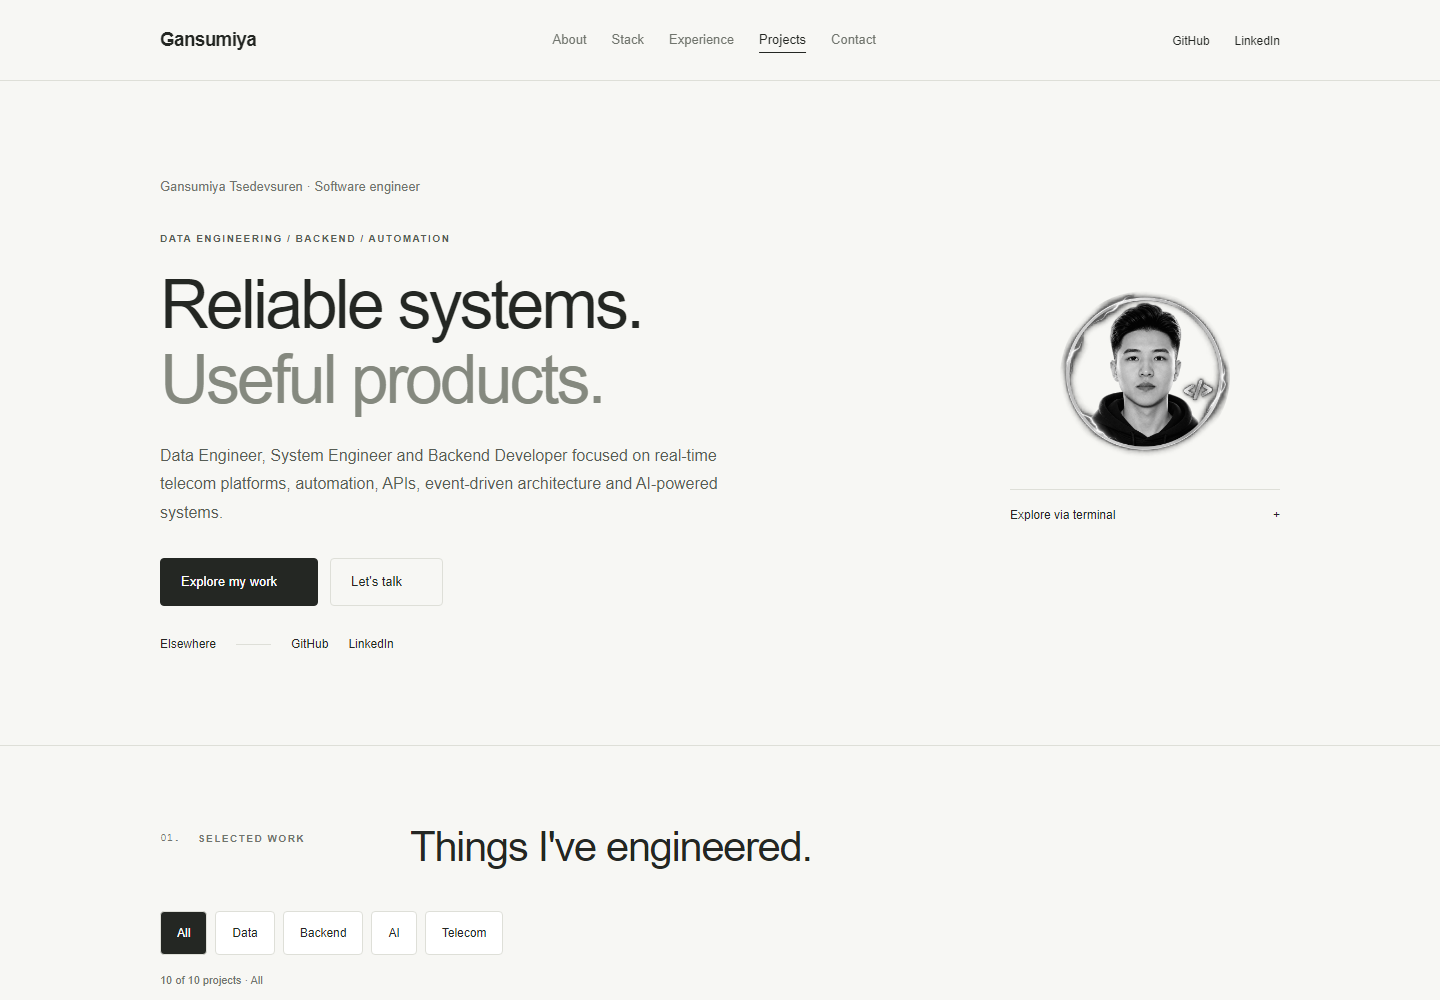
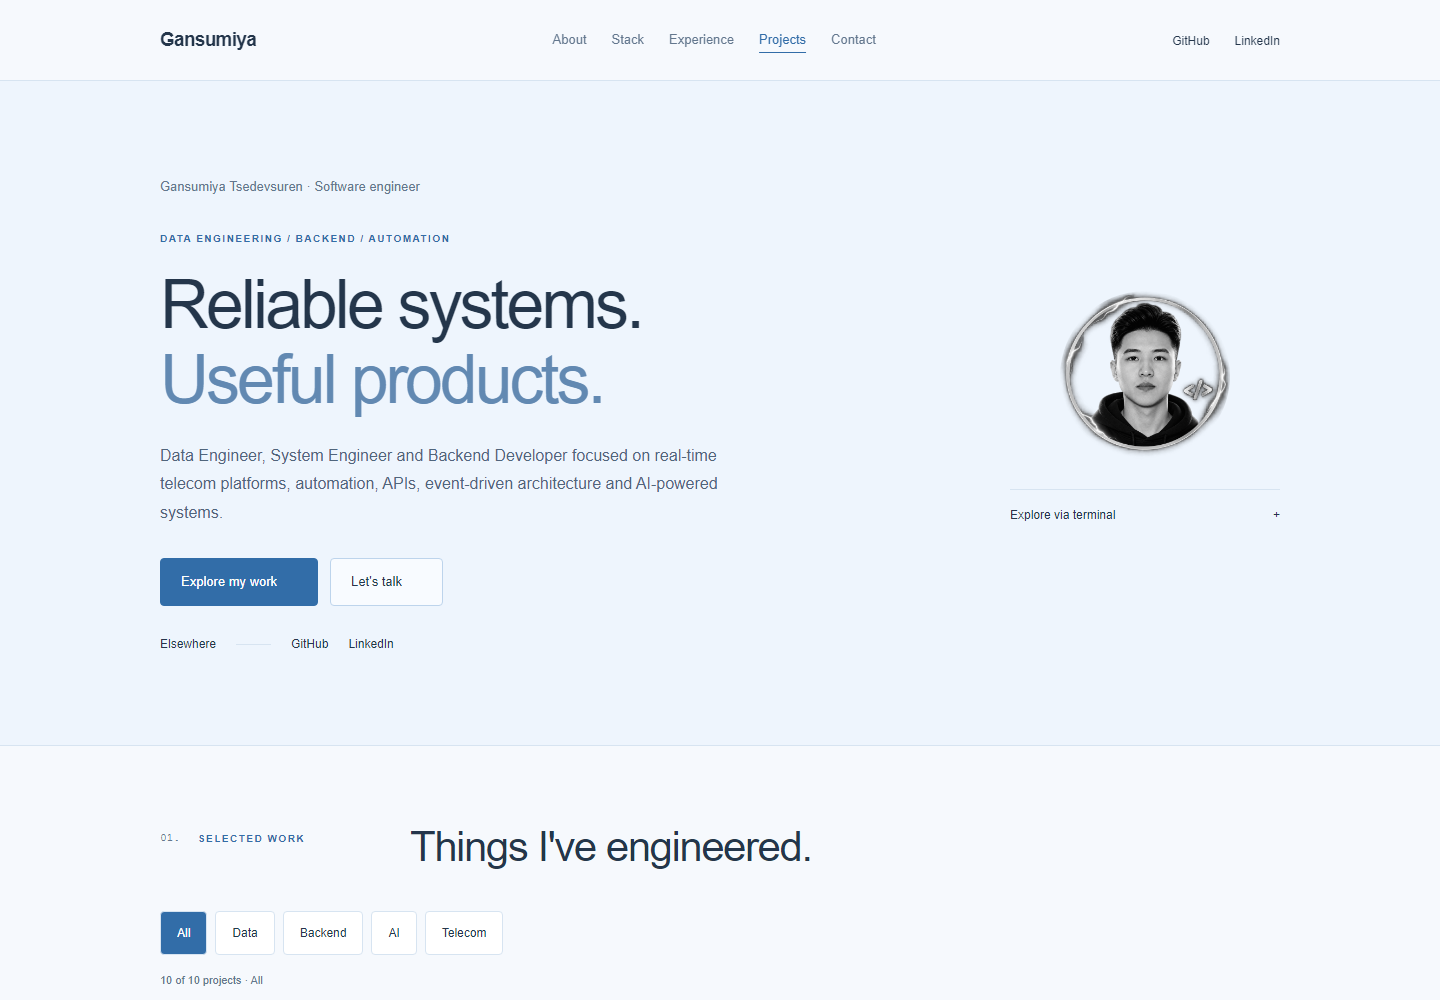
change back colr and image
change back colr and image

diff --git a/style.css b/style.css
@@ -1,2 +1,8 @@
-:root{--bg:#f7f7f4;--bg-alt:#fff;--card-solid:#fff;--text:#242723;--muted:#70746d;--muted-light:#575d55;--border:#dedfd8;--border-hover:#9ba298;--amber:#345b49;--green:#345b49}*{box-sizing:border-box;margin:0;padding:0}html{scroll-behavior:smooth}body{background:var(--bg);color:var(--text);font:15px/1.7 Inter,Arial,sans-serif}a{color:inherit;text-decoration:none}button,input,select{font:inherit}button,a{touch-action:manipulation}img{max-width:100%}p{color:var(--muted-light)}h1,h2,h3{font-weight:500;line-height:1.18;letter-spacing:-.035em}h2{font-size:clamp(28px,4vw,42px)}h3{font-size:24px}.container{width:min(1120px,calc(100% - 64px));margin:auto}.background-grid,.ancient-symbols,.orb,#cursor-glow,#scroll-progress,.floating-chip,.avatar-glow,.avatar-status,.tech-strip,.philosophy-section,.currently-grid,.availability-dot,.logo-symbol,.project-icon-large,.project-small-icon,.skill-card-icon,.stat-icon,.experience-marker{display:none}.navbar{position:sticky;top:0;z-index:20;background:rgba(247,247,244,.96);border-bottom:1px solid var(--border)}.nav-container{display:flex;align-items:center;justify-content:space-between;min-height:80px;gap:28px}.logo{font-size:19px;font-weight:600;letter-spacing:-.7px}.nav-links,.nav-actions{display:flex;gap:25px;align-items:center}.nav-links a{font-size:13px;color:var(--muted)}.nav-links a:hover,.nav-links a.active{color:var(--text);text-decoration:underline;text-underline-offset:7px}.nav-icon{font-size:17px}.mobile-menu-button{display:none}.mobile-menu{display:none}.hero{padding:95px 0 90px}.hero-container{display:grid;grid-template-columns:1fr 270px;gap:90px;align-items:center}.availability-badge{font-size:13px;color:var(--muted);margin-bottom:32px}.hero-overline,.section-label,.project-category,.experience-company,.contact-small{font-size:10px;letter-spacing:1.5px;font-weight:600}.hero-overline{margin-bottom:20px}.hero-title{font-size:clamp(42px,5.1vw,68px);line-height:1.1;letter-spacing:-3px;margin-bottom:25px}.muted-text{color:#85897f}.gradient-text{color:inherit}.hero-description{max-width:570px;line-height:1.8;font-size:16px}.hero-actions{display:flex;gap:12px;flex-wrap:wrap;margin-top:30px}.button{display:inline-flex;gap:20px;align-items:center;padding:12px 20px;border:1px solid var(--border);border-radius:4px;font-size:13px}.button-primary{background:var(--text);color:#fff;border-color:var(--text)}.hero-social{display:flex;gap:20px;align-items:center;font-size:12px;margin-top:28px}.hero-social-line{width:35px;height:1px;background:var(--border)}.hero-avatar{width:170px;height:170px;object-fit:cover;border-radius:50%;filter:grayscale(1);display:block;margin:0 auto 28px}.terminal-card{border-top:1px solid var(--border);font-size:12px}.terminal-card summary{padding:15px 0;cursor:pointer;list-style:none}.terminal-card summary span{float:right}.terminal-header,.terminal-body>.terminal-line,.terminal-output,.terminal-status{display:none}.terminal-body{padding:0 0 16px}.section{padding:76px 0;border-top:1px solid var(--border)}.section-header{display:grid;grid-template-columns:220px 1fr;gap:30px;align-items:start;margin-bottom:40px}.section-header>div{display:flex;gap:18px;align-items:center;padding-top:8px}.section-number{font:11px monospace;color:var(--muted)}.section-label{color:var(--muted)}.section-header h2{max-width:650px}.projects-grid{display:grid;grid-template-columns:repeat(2,minmax(0,1fr));gap:0 36px}.project-card{padding:30px 0;border-top:1px solid var(--border);min-width:0;display:flex;flex-direction:column}.project-card[hidden]{display:none}.project-card:first-child{order:-2}.project-card:last-child{order:-1}.project-top{display:flex;justify-content:space-between;align-items:center;margin-bottom:25px}.project-number{font:12px monospace;color:var(--muted)}.project-badges{display:flex;gap:15px;font-size:9px;letter-spacing:1px}.project-status{color:var(--green)}.project-category{color:var(--muted);margin-bottom:10px}.project-card h3{font-size:28px;margin-bottom:16px}.project-description{font-size:14px;line-height:1.8;margin-bottom:20px}.project-split{display:none}.project-tech,.skill-tags,.experience-stack{display:flex;gap:7px;flex-wrap:wrap}.project-tech{margin-top:auto}.project-tech span,.skill-tags span,.experience-stack span{font-size:11px;border:1px solid var(--border);padding:5px 9px;border-radius:3px}.project-link{font-size:13px;margin-top:22px;color:var(--amber);text-decoration:underline;text-underline-offset:5px}.about-layout{display:grid;grid-template-columns:1.3fr 1fr;gap:70px}.about-main p{margin-bottom:20px}.about-big-text{font-size:23px;line-height:1.6}.stat-card{padding:0 0 24px;margin-bottom:20px;border-bottom:1px solid var(--border)}.stat-card h3{font-size:18px;margin-bottom:8px}.stat-card p{font-size:13px}.skills-bento{display:grid;grid-template-columns:repeat(4,minmax(0,1fr));gap:35px 25px}.skill-card{padding-top:20px;border-top:1px solid var(--border)}.skill-index{font:11px monospace;color:var(--muted)}.skill-card h3{font-size:18px;margin:12px 0 20px}.skill-card>p{font-size:13px;margin-bottom:16px}.experience-item{display:grid;grid-template-columns:220px 1fr;gap:30px}.experience-date{font:12px monospace;color:var(--muted);padding-top:7px}.experience-top{display:flex;justify-content:space-between;gap:20px;margin-bottom:22px}.experience-company{margin-bottom:12px}.experience-type{font-size:12px;color:var(--muted)}.experience-points{margin:24px 0;font-size:14px}.experience-points>div{margin:9px 0}.experience-points i{margin-right:12px;font-size:10px}.section:has(.currently-grid){display:none}.contact-box{max-width:760px}.contact-status{font:10px monospace;color:var(--green);margin-bottom:30px}.contact-small{margin-bottom:15px}.contact-description{margin:24px 0}.contact-email{font-size:clamp(17px,3vw,29px);text-decoration:underline;text-underline-offset:6px;overflow-wrap:anywhere}.contact-links{display:flex;gap:25px;flex-wrap:wrap;font-size:13px;margin-top:25px}.contact-links i{margin-right:6px}.footer{border-top:1px solid var(--border);padding:30px 0;font-size:11px}.footer-container{display:flex;justify-content:space-between;gap:20px}.footer .fa-heart{display:none}.reveal{opacity:1}.architecture-board{margin:28px 0;border:1px solid var(--border);background:#fff;padding:24px;border-radius:5px}.architecture-caption{display:flex;justify-content:space-between;gap:20px;margin-bottom:24px;font-size:12px}.architecture-caption span{color:var(--muted);font:10px monospace}.arch-lane{display:grid;grid-template-columns:110px repeat(4,minmax(0,1fr));gap:24px;align-items:stretch;margin:16px 0}.arch-lane>strong{align-self:center;font-size:10px;letter-spacing:1px;font-weight:500}.arch-node{position:relative;border:1px solid var(--border);padding:14px 12px;border-radius:3px;font-size:12px;font-weight:600}.arch-node small{display:block;margin-top:7px;font-size:10px;font-weight:400;color:var(--muted)}.arch-node:not(:last-child):after{content:'→';position:absolute;right:-20px;top:40%;color:var(--muted)}.arch-node.accent{border-color:#88a092;background:#f1f5f0}.arch-support{border-top:1px dashed #b7bdb3;margin-top:24px;padding-top:18px;display:grid;grid-template-columns:repeat(3,1fr);gap:20px}.arch-support div{font-size:11px}.arch-support small{display:block;color:var(--muted);margin-top:5px}.arch-note{font-size:11px;margin-top:18px}.project-dialog .architecture-board{padding:15px}.project-dialog .arch-lane{grid-template-columns:1fr 1fr;gap:15px}.project-dialog .arch-lane>strong{grid-column:1/-1}.project-dialog .arch-node:after{display:none}@media(max-width:850px){.nav-links{gap:15px}.nav-actions .nav-icon{display:none}.hero-container{gap:35px;grid-template-columns:1fr 220px}.skills-bento{grid-template-columns:repeat(2,1fr)}.arch-lane{grid-template-columns:1fr 1fr;gap:20px}.arch-lane>strong{grid-column:1/-1}.arch-node:nth-child(3):after{content:none}.section-header,.experience-item{grid-template-columns:160px 1fr}}@media(max-width:600px){.container{width:calc(100% - 40px)}.nav-container{min-height:65px}.nav-links{display:none}.mobile-menu-button{display:block;border:1px solid var(--border);background:transparent;width:42px;height:42px;border-radius:3px}.mobile-menu.active{display:flex;flex-direction:column;padding:20px;gap:16px;border-top:1px solid var(--border)}.hero{padding:50px 0}.hero-container{grid-template-columns:1fr;gap:32px}.hero-visual{display:flex;gap:22px;align-items:flex-start}.avatar-wrapper{flex:0 0 70px}.hero-avatar{width:70px;height:70px;margin:0}.terminal-card{flex:1;min-width:0}.hero-title{letter-spacing:-2px}.availability-badge{margin-bottom:24px}.section{padding:48px 0}.section-header,.experience-item,.about-layout{grid-template-columns:1fr;gap:22px}.projects-grid{grid-template-columns:1fr}.skills-bento{gap:25px 16px}.skill-card h3{font-size:17px}.footer-container{flex-direction:column;gap:10px}.arch-support{grid-template-columns:1fr;gap:12px}.architecture-board{padding:16px}.architecture-caption{flex-direction:column;gap:6px}.arch-lane{grid-template-columns:1fr;gap:20px}.arch-node:not(:last-child):after{content:'↓';right:50%;top:auto;bottom:-20px}.project-dialog .arch-lane{grid-template-columns:1fr}}
+:root{--bg:#f6f9fd;--bg-alt:#fff;--card-solid:#fff;--text:#24364b;--muted:#63778e;--muted-light:#50657c;--border:#d7e4f1;--border-hover:#8fb6dd;--amber:#326da8;--green:#326da8}*{box-sizing:border-box;margin:0;padding:0}html{scroll-behavior:smooth}body{background:var(--bg);color:var(--text);font:15px/1.7 Inter,Arial,sans-serif}a{color:inherit;text-decoration:none}button,input,select{font:inherit}button,a{touch-action:manipulation}img{max-width:100%}p{color:var(--muted-light)}h1,h2,h3{font-weight:500;line-height:1.18;letter-spacing:-.035em}h2{font-size:clamp(28px,4vw,42px)}h3{font-size:24px}.container{width:min(1120px,calc(100% - 64px));margin:auto}.background-grid,.ancient-symbols,.orb,#cursor-glow,#scroll-progress,.floating-chip,.avatar-glow,.avatar-status,.tech-strip,.philosophy-section,.currently-grid,.availability-dot,.logo-symbol,.project-icon-large,.project-small-icon,.skill-card-icon,.stat-icon,.experience-marker{display:none}.navbar{position:sticky;top:0;z-index:20;background:rgba(246,249,253,.96);border-bottom:1px solid var(--border)}.nav-container{display:flex;align-items:center;justify-content:space-between;min-height:80px;gap:28px}.logo{font-size:19px;font-weight:600;letter-spacing:-.7px}.nav-links,.nav-actions{display:flex;gap:25px;align-items:center}.nav-links a{font-size:13px;color:var(--muted)}.nav-links a:hover,.nav-links a.active{color:var(--text);text-decoration:underline;text-underline-offset:7px}.nav-icon{font-size:17px}.mobile-menu-button{display:none}.mobile-menu{display:none}.hero{padding:95px 0 90px}.hero-container{display:grid;grid-template-columns:1fr 270px;gap:90px;align-items:center}.availability-badge{font-size:13px;color:var(--muted);margin-bottom:32px}.hero-overline,.section-label,.project-category,.experience-company,.contact-small{font-size:10px;letter-spacing:1.5px;font-weight:600}.hero-overline{margin-bottom:20px}.hero-title{font-size:clamp(42px,5.1vw,68px);line-height:1.1;letter-spacing:-3px;margin-bottom:25px}.muted-text{color:#6289b2}.gradient-text{color:inherit}.hero-description{max-width:570px;line-height:1.8;font-size:16px}.hero-actions{display:flex;gap:12px;flex-wrap:wrap;margin-top:30px}.button{display:inline-flex;gap:20px;align-items:center;padding:12px 20px;border:1px solid var(--border);border-radius:4px;font-size:13px}.button-primary{background:var(--amber);color:#fff;border-color:var(--amber)}.hero-social{display:flex;gap:20px;align-items:center;font-size:12px;margin-top:28px}.hero-social-line{width:35px;height:1px;background:var(--border)}.hero-avatar{width:170px;height:170px;object-fit:cover;border-radius:50%;filter:none;display:block;margin:0 auto 28px}.terminal-card{border-top:1px solid var(--border);font-size:12px}.terminal-card summary{padding:15px 0;cursor:pointer;list-style:none}.terminal-card summary span{float:right}.terminal-header,.terminal-body>.terminal-line,.terminal-output,.terminal-status{display:none}.terminal-body{padding:0 0 16px}.section{padding:76px 0;border-top:1px solid var(--border)}.section-header{display:grid;grid-template-columns:220px 1fr;gap:30px;align-items:start;margin-bottom:40px}.section-header>div{display:flex;gap:18px;align-items:center;padding-top:8px}.section-number{font:11px monospace;color:var(--muted)}.section-label{color:var(--muted)}.section-header h2{max-width:650px}.projects-grid{display:grid;grid-template-columns:repeat(2,minmax(0,1fr));gap:0 36px}.project-card{padding:30px 0;border-top:1px solid var(--border);min-width:0;display:flex;flex-direction:column}.project-card[hidden]{display:none}.project-card:first-child{order:-2}.project-card:last-child{order:-1}.project-top{display:flex;justify-content:space-between;align-items:center;margin-bottom:25px}.project-number{font:12px monospace;color:var(--muted)}.project-badges{display:flex;gap:15px;font-size:9px;letter-spacing:1px}.project-status{color:var(--green)}.project-category{color:var(--muted);margin-bottom:10px}.project-card h3{font-size:28px;margin-bottom:16px}.project-description{font-size:14px;line-height:1.8;margin-bottom:20px}.project-split{display:none}.project-tech,.skill-tags,.experience-stack{display:flex;gap:7px;flex-wrap:wrap}.project-tech{margin-top:auto}.project-tech span,.skill-tags span,.experience-stack span{font-size:11px;border:1px solid var(--border);padding:5px 9px;border-radius:3px}.project-link{font-size:13px;margin-top:22px;color:var(--amber);text-decoration:underline;text-underline-offset:5px}.about-layout{display:grid;grid-template-columns:1.3fr 1fr;gap:70px}.about-main p{margin-bottom:20px}.about-big-text{font-size:23px;line-height:1.6}.stat-card{padding:0 0 24px;margin-bottom:20px;border-bottom:1px solid var(--border)}.stat-card h3{font-size:18px;margin-bottom:8px}.stat-card p{font-size:13px}.skills-bento{display:grid;grid-template-columns:repeat(4,minmax(0,1fr));gap:35px 25px}.skill-card{padding-top:20px;border-top:1px solid var(--border)}.skill-index{font:11px monospace;color:var(--muted)}.skill-card h3{font-size:18px;margin:12px 0 20px}.skill-card>p{font-size:13px;margin-bottom:16px}.experience-item{display:grid;grid-template-columns:220px 1fr;gap:30px}.experience-date{font:12px monospace;color:var(--muted);padding-top:7px}.experience-top{display:flex;justify-content:space-between;gap:20px;margin-bottom:22px}.experience-company{margin-bottom:12px}.experience-type{font-size:12px;color:var(--muted)}.experience-points{margin:24px 0;font-size:14px}.experience-points>div{margin:9px 0}.experience-points i{margin-right:12px;font-size:10px}.section:has(.currently-grid){display:none}.contact-box{max-width:760px}.contact-status{font:10px monospace;color:var(--green);margin-bottom:30px}.contact-small{margin-bottom:15px}.contact-description{margin:24px 0}.contact-email{font-size:clamp(17px,3vw,29px);text-decoration:underline;text-underline-offset:6px;overflow-wrap:anywhere}.contact-links{display:flex;gap:25px;flex-wrap:wrap;font-size:13px;margin-top:25px}.contact-links i{margin-right:6px}.footer{border-top:1px solid var(--border);padding:30px 0;font-size:11px}.footer-container{display:flex;justify-content:space-between;gap:20px}.footer .fa-heart{display:none}.reveal{opacity:1}.architecture-board{margin:28px 0;border:1px solid var(--border);background:#fff;padding:24px;border-radius:5px}.architecture-caption{display:flex;justify-content:space-between;gap:20px;margin-bottom:24px;font-size:12px}.architecture-caption span{color:var(--muted);font:10px monospace}.arch-lane{display:grid;grid-template-columns:110px repeat(4,minmax(0,1fr));gap:24px;align-items:stretch;margin:16px 0}.arch-lane>strong{align-self:center;font-size:10px;letter-spacing:1px;font-weight:500}.arch-node{position:relative;border:1px solid var(--border);padding:14px 12px;border-radius:3px;font-size:12px;font-weight:600}.arch-node small{display:block;margin-top:7px;font-size:10px;font-weight:400;color:var(--muted)}.arch-node:not(:last-child):after{content:'→';position:absolute;right:-20px;top:40%;color:var(--muted)}.arch-node.accent{border-color:#a6c9ea;background:#edf5fe}.arch-support{border-top:1px dashed #b8cfe6;margin-top:24px;padding-top:18px;display:grid;grid-template-columns:repeat(3,1fr);gap:20px}.arch-support div{font-size:11px}.arch-support small{display:block;color:var(--muted);margin-top:5px}.arch-note{font-size:11px;margin-top:18px}.project-dialog .architecture-board{padding:15px}.project-dialog .arch-lane{grid-template-columns:1fr 1fr;gap:15px}.project-dialog .arch-lane>strong{grid-column:1/-1}.project-dialog .arch-node:after{display:none}@media(max-width:850px){.nav-links{gap:15px}.nav-actions .nav-icon{display:none}.hero-container{gap:35px;grid-template-columns:1fr 220px}.skills-bento{grid-template-columns:repeat(2,1fr)}.arch-lane{grid-template-columns:1fr 1fr;gap:20px}.arch-lane>strong{grid-column:1/-1}.arch-node:nth-child(3):after{content:none}.section-header,.experience-item{grid-template-columns:160px 1fr}}@media(max-width:600px){.container{width:calc(100% - 40px)}.nav-container{min-height:65px}.nav-links{display:none}.mobile-menu-button{display:block;border:1px solid var(--border);background:transparent;width:42px;height:42px;border-radius:3px}.mobile-menu.active{display:flex;flex-direction:column;padding:20px;gap:16px;border-top:1px solid var(--border)}.hero{padding:50px 0}.hero-container{grid-template-columns:1fr;gap:32px}.hero-visual{display:flex;gap:22px;align-items:flex-start}.avatar-wrapper{flex:0 0 70px}.hero-avatar{width:70px;height:70px;margin:0}.terminal-card{flex:1;min-width:0}.hero-title{letter-spacing:-2px}.availability-badge{margin-bottom:24px}.section{padding:48px 0}.section-header,.experience-item,.about-layout{grid-template-columns:1fr;gap:22px}.projects-grid{grid-template-columns:1fr}.skills-bento{gap:25px 16px}.skill-card h3{font-size:17px}.footer-container{flex-direction:column;gap:10px}.arch-support{grid-template-columns:1fr;gap:12px}.architecture-board{padding:16px}.architecture-caption{flex-direction:column;gap:6px}.arch-lane{grid-template-columns:1fr;gap:20px}.arch-node:not(:last-child):after{content:'↓';right:50%;top:auto;bottom:-20px}.project-dialog .arch-lane{grid-template-columns:1fr}}
 .nav-icon .social-label{font-size:12px}.hero-social .social-label{font-size:12px}.mobile-menu-button i{font-style:normal}
+
+/* Soft blue surfaces keep the page minimal while adding a little color. */
+.hero,.contact-section{background:#eef5fd}.hero-overline,.section-label,.project-category{color:var(--amber)}.button-secondary{background:#f8fbff;border-color:#bdd4ec}.button-primary:hover{background:#285c91}.nav-links a.active,.nav-links a:hover{color:var(--amber)}
+
+/* Original portrait: gentle display adjustment only, no generated facial edits. */
+.hero-avatar{object-fit:cover;object-position:center 35%;filter:brightness(1.08);border:3px solid #b9dcfa;box-shadow:0 0 0 5px #e3f1fd;background:#eef5fd}

diff --git a/interactions.css b/interactions.css
@@ -66,4 +66,4 @@ body.dialog-open { overflow: hidden; }
 @media (max-width: 600px) { .demo-data { grid-template-columns: 1fr; } .pipeline-track { grid-template-columns: 1fr; } .pipeline-track li::after { content: '↓'; right: 50%; top: auto; bottom: -18px; } .demo-controls { align-items: stretch; flex-direction: column; } }
 @media (prefers-reduced-motion: reduce) { html { scroll-behavior: auto !important; } *, *::before, *::after { animation: none !important; transition: none !important; scroll-behavior: auto !important; } .reveal { opacity: 1 !important; transform: none !important; } }
 /* Quiet controls aligned with the minimal page. */
-.chip,.detail-open,.copy-email,.demo-run,.dialog-close,.demo-controls select{border-radius:4px;font-size:12px}.detail-open{align-self:flex-start;padding:0;min-height:40px;border:0;margin-top:14px;text-decoration:underline;text-underline-offset:5px}.project-dialog{border-radius:6px;width:min(960px,calc(100% - 28px))}.project-dialog h2,.pipeline-demo h3{font-family:Inter,Arial,sans-serif;font-weight:500}.project-dialog::backdrop{background:rgba(25,30,24,.45);backdrop-filter:blur(2px)}.pipeline-demo{border-top:1px solid var(--border);padding:40px 0 0;margin-top:40px}.demo-label{letter-spacing:1px;color:var(--muted)}.pipeline-track li,.demo-data pre,.architecture-flow span{border-radius:3px}.pipeline-track .current{background:#edf2eb}.demo-data pre{color:var(--muted-light)}.copy-email{margin:22px 0 0}.copy-status{margin-top:8px}.filter-bar{gap:8px}.filter-summary{font-size:11px}.chip[aria-pressed="true"]{background:var(--text);color:#fff}.project-tech button,.skill-tags button{min-height:32px;padding:4px 8px;font-size:11px;background:transparent}.project-dialog .demo-preview{display:none}
+.chip,.detail-open,.copy-email,.demo-run,.dialog-close,.demo-controls select{border-radius:4px;font-size:12px}.detail-open{align-self:flex-start;padding:0;min-height:40px;border:0;margin-top:14px;text-decoration:underline;text-underline-offset:5px}.project-dialog{border-radius:6px;width:min(960px,calc(100% - 28px))}.project-dialog h2,.pipeline-demo h3{font-family:Inter,Arial,sans-serif;font-weight:500}.project-dialog::backdrop{background:rgba(27,47,72,.45);backdrop-filter:blur(2px)}.pipeline-demo{border-top:1px solid var(--border);padding:40px 0 0;margin-top:40px}.demo-label{letter-spacing:1px;color:var(--muted)}.pipeline-track li,.demo-data pre,.architecture-flow span{border-radius:3px}.pipeline-track .current{background:#e8f2fd}.demo-data pre{color:var(--muted-light)}.copy-email{margin:22px 0 0}.copy-status{margin-top:8px}.filter-bar{gap:8px}.filter-summary{font-size:11px}.chip[aria-pressed="true"]{background:var(--amber);color:#fff}.project-tech button,.skill-tags button{min-height:32px;padding:4px 8px;font-size:11px;background:transparent}.project-dialog .demo-preview{display:none}

diff --git a/index.html b/index.html
@@ -18,7 +18,7 @@
 
   <title>Gansumiya Tsedevsuren | Data × Backend × AI</title>
 
-  <meta name="theme-color" content="#f7f7f4" />
+  <meta name="theme-color" content="#f6f9fd" />
 
   <!-- Open Graph -->
   <meta property="og:type" content="website" />
@@ -27,7 +27,7 @@
     property="og:description"
     content="Data Engineer, Backend Developer, System Engineer and AI Automation Developer."
   />
-  <meta property="og:image" content="avatar.png" />
+  <meta property="og:image" content="ghana.jpg" />
 
   <!-- Twitter Card -->
   <meta name="twitter:card" content="summary" />
@@ -36,7 +36,7 @@
     name="twitter:description"
     content="Data Engineer, Backend Developer, System Engineer and AI Automation Developer."
   />
-  <meta name="twitter:image" content="avatar.png" />
+  <meta name="twitter:image" content="ghana.jpg" />
 
   <!-- Icons -->
   <link rel="icon" type="image/png" href="favicon.png">
@@ -247,7 +247,7 @@
             <div class="avatar-glow"></div>
 
             <img
-              src="avatar.png"
+              src="ghana.jpg"
               alt="Gansumiya Tsedevsuren"
               class="hero-avatar"
             />
